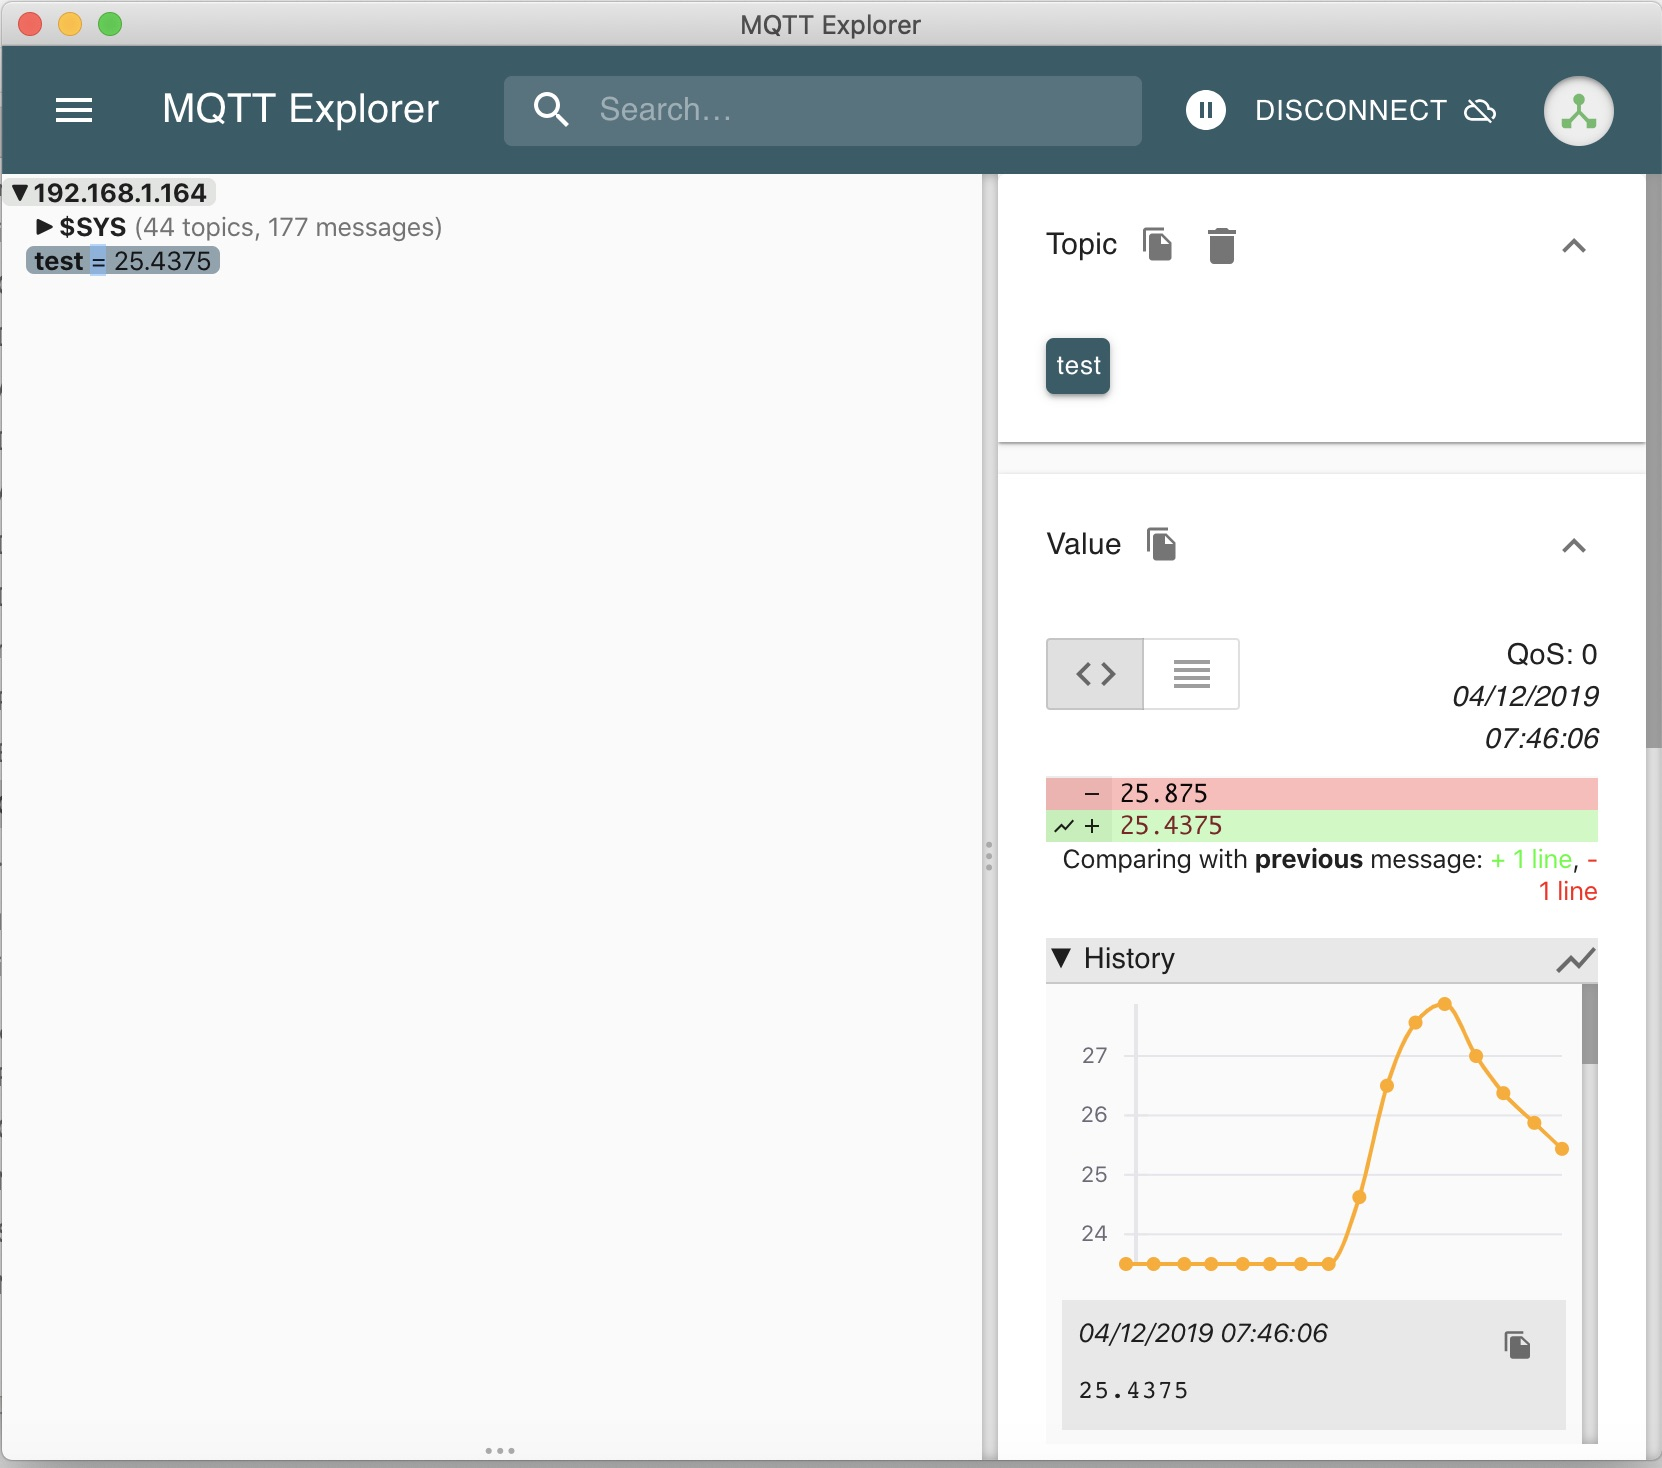
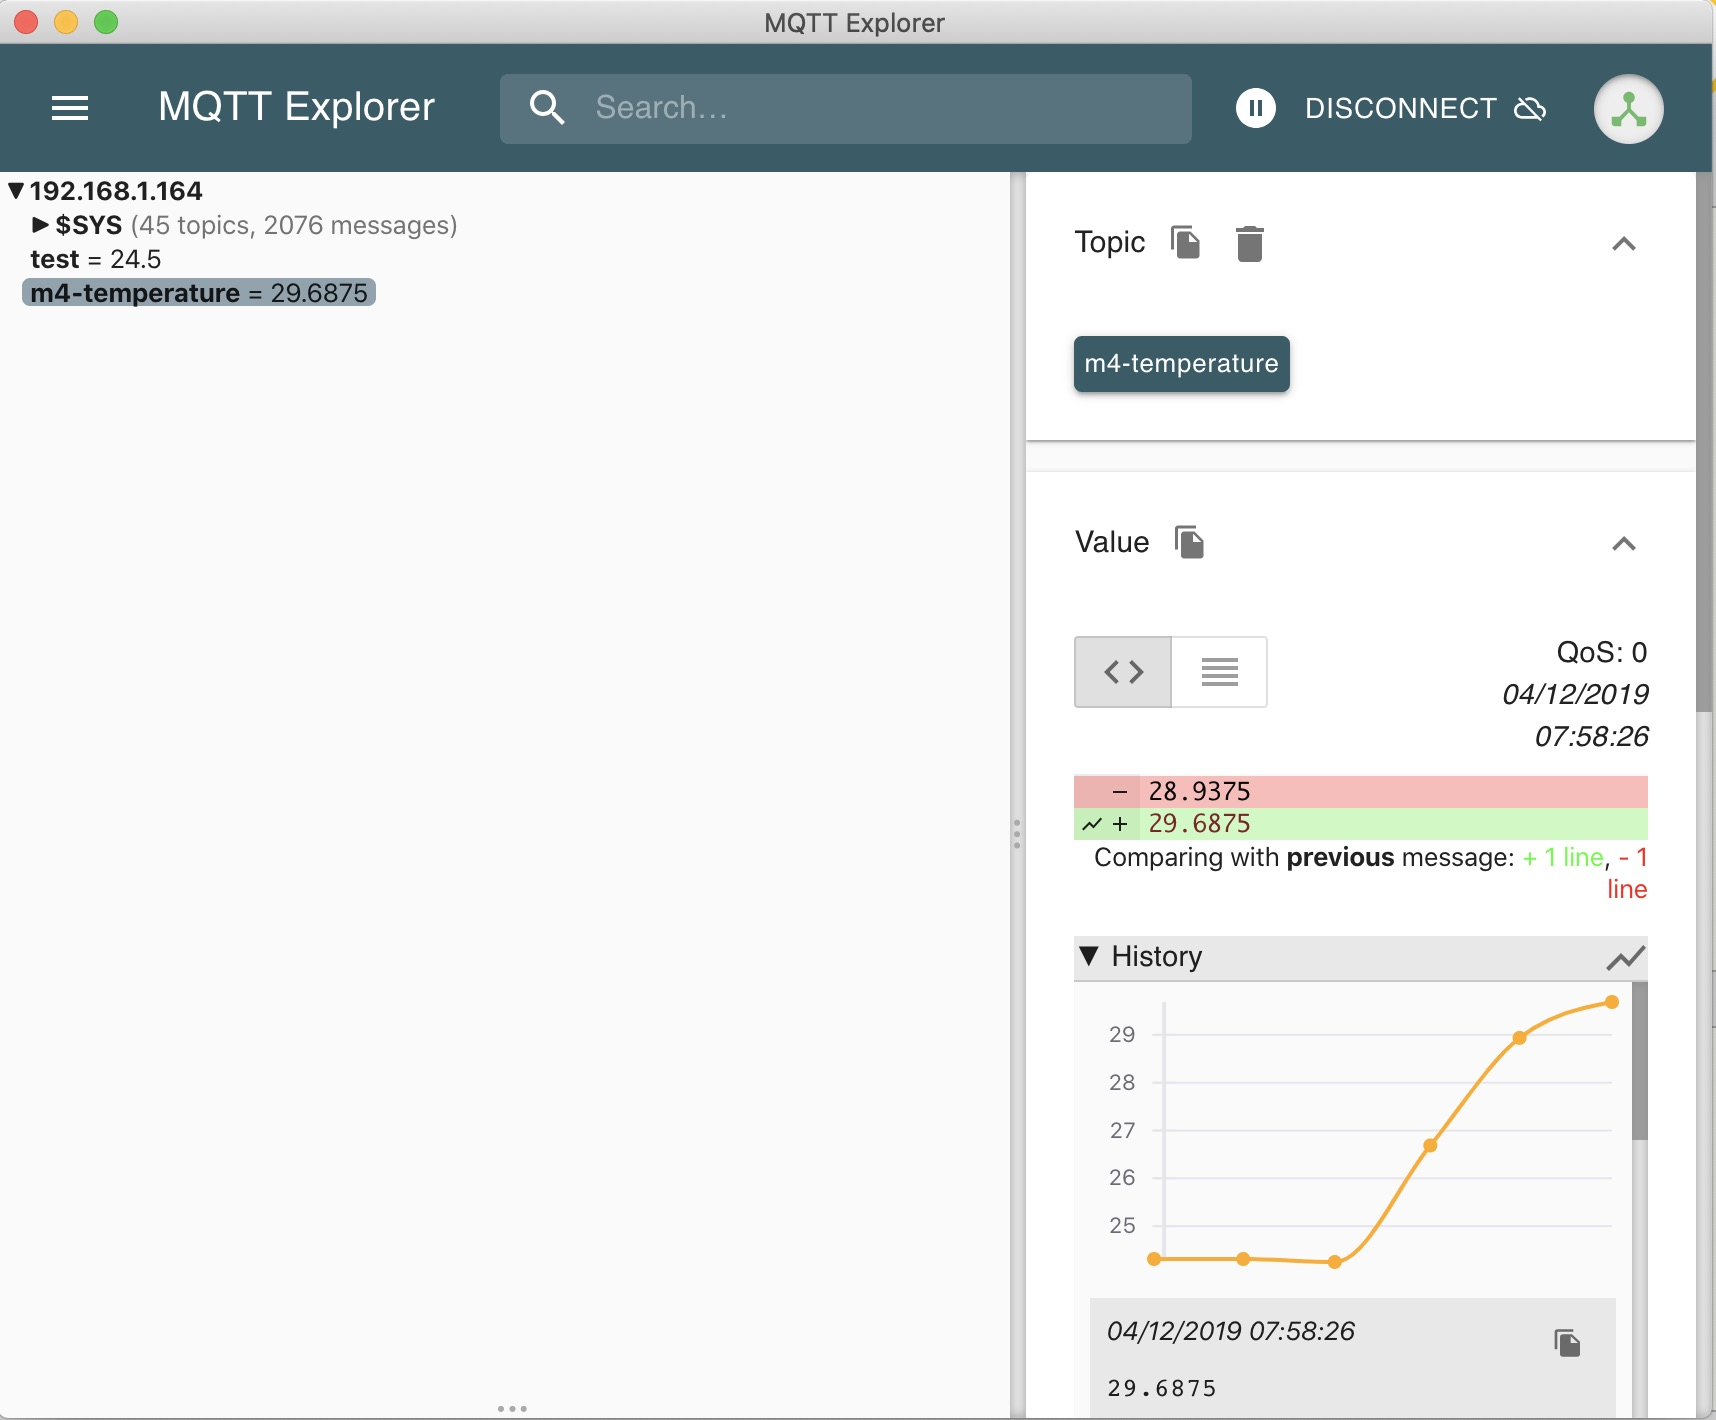
Add mu

diff --git a/1-wire temperature/code.py b/1-wire temperature/code.py
@@ -8,9 +8,7 @@ from adafruit_esp32spi import adafruit_esp32spi_wifimanager
 import adafruit_esp32spi.adafruit_esp32spi_socket as socket
 from adafruit_onewire.bus import OneWireBus
 from adafruit_ds18x20 import DS18X20
-
 from adafruit_minimqtt import MQTT
-
 import adafruit_dotstar
 
 led = neopixel.NeoPixel(board.NEOPIXEL, 1)
@@ -18,30 +16,22 @@ led.brightness = 0.2
 
 # Initialize one-wire bus on board pin D5.
 ow_bus = OneWireBus(board.D5)
-# Scan for sensors and grab the first one found.
 ds18 = DS18X20(ow_bus, ow_bus.scan()[0])
 
-### WiFi ###
-
 # Get wifi details and more from a secrets.py file
-try:
-    from secrets import secrets
-except ImportError:
-    print("WiFi secrets are kept in secrets.py, please add them there!")
-    raise
+from secrets import secrets
 
 # If you are using a board with pre-defined ESP32 Pins:
 esp32_cs = DigitalInOut(board.ESP_CS)
 esp32_ready = DigitalInOut(board.ESP_BUSY)
 esp32_reset = DigitalInOut(board.ESP_RESET)
-
 spi = busio.SPI(board.SCK, board.MOSI, board.MISO)
 esp = adafruit_esp32spi.ESP_SPIcontrol(spi, esp32_cs, esp32_ready, esp32_reset)
-
 wifi = adafruit_esp32spi_wifimanager.ESPSPI_WiFiManager(esp, secrets)
 
-mqtt_topic = "test"
-
+## Setup topic and measurement interval
+mqtt_topic = "m4-temperature"
+sleep_time = 5
 
 def connect(client, userdata, flags, rc):
     # This function will be called when the client is connected
@@ -49,16 +39,13 @@ def connect(client, userdata, flags, rc):
     print("Connected to MQTT Broker!")
     print("Flags: {0}\n RC: {1}".format(flags, rc))
 
-
 def subscribe(client, userdata, topic, granted_qos):
     # This method is called when the client subscribes to a new feed.
     print("Subscribed to {0} with QOS level {1}".format(topic, granted_qos))
 
-
 def publish(client, userdata, topic, pid):
     # This method is called when the client publishes data to a feed.
     print("Published to {0} with PID {1}".format(topic, pid))
-
 
 # Connect to WiFi
 wifi.connect()
@@ -66,7 +53,7 @@ wifi.connect()
 # Set up a MiniMQTT Client
 client = MQTT(
     socket,
-    broker="192.168.1.164",  # secrets['mqtt-broker'],
+    broker=secrets['mqtt-broker'],
     port=1883,
     network_manager=wifi,
 )
@@ -79,20 +66,16 @@ client.on_publish = publish
 print("Attempting to connect to %s" % client.broker)
 client.connect()
 client.subscribe(mqtt_topic)
-client.publish(mqtt_topic, "Hello Robin, logging the time!")
-
-counter = 0 # to debug hanging script
+client.publish(mqtt_topic, "Hello earthling, logging the temperature!")
 
 while True:
     try:
         temperature = ds18.temperature
         print('Temperature: {0:0.3f}C'.format(ds18.temperature))
-        led[0] = (0, 255, 0)
+        led[0] = (0, 255, 0) # green
         client.publish(mqtt_topic, temperature)
-        print(counter)
-        time.sleep(0.5)
-        led[0] = (255, 0, 0)
-        time.sleep(1)
-        counter = counter +1
+        time.sleep(0.2)
+        led[0] = (255, 0, 0) # red
+        time.sleep(sleep_time)
     except:
         pass

diff --git a/1-wire temperature/secrets.py b/1-wire temperature/secrets.py
@@ -1,0 +1,10 @@
+# This file is where you keep secret settings, passwords, and tokens!
+# If you put them in the code you risk committing that info or sharing it
+
+secrets = {
+    "ssid": "yours",
+    "password": "yours",
+    "timezone": "Europe/London",
+    "mqtt-broker": "yours",
+}
+

diff --git a/1-wire temperature/README.md b/1-wire temperature/README.md
@@ -1,5 +1,5 @@
 ## 1-wire temperature sensor DS18B20
-* Project: read temperature, publish over MQTT (via wifi)
+* Project: read temperature, publish over MQTT (via wifi) on the `m4-temperature` topic. LED blinks red on each reading.
 * [DS18B20 Sensor on adafruit](https://www.adafruit.com/product/374) and [Metro M4 Airlift board](https://shop.pimoroni.com/products/adafruit-metro-m4-express-airlift-wifi-lite)
 * DS18B20 is 1-Wire interface Temperature sensor manufactured by Dallas Semiconductor Corp. Requires only one digital pin for two way communication with a microcontroller.
 * Circuitpython lib (in bundle) -> https://github.com/adafruit/Adafruit_CircuitPython_DS18X20 and [guide](https://learn.adafruit.com/using-ds18b20-temperature-sensor-with-circuitpython). Use [this example](https://github.com/adafruit/Adafruit_CircuitPython_DS18X20/blob/master/examples/ds18x20_simpletest.py)
